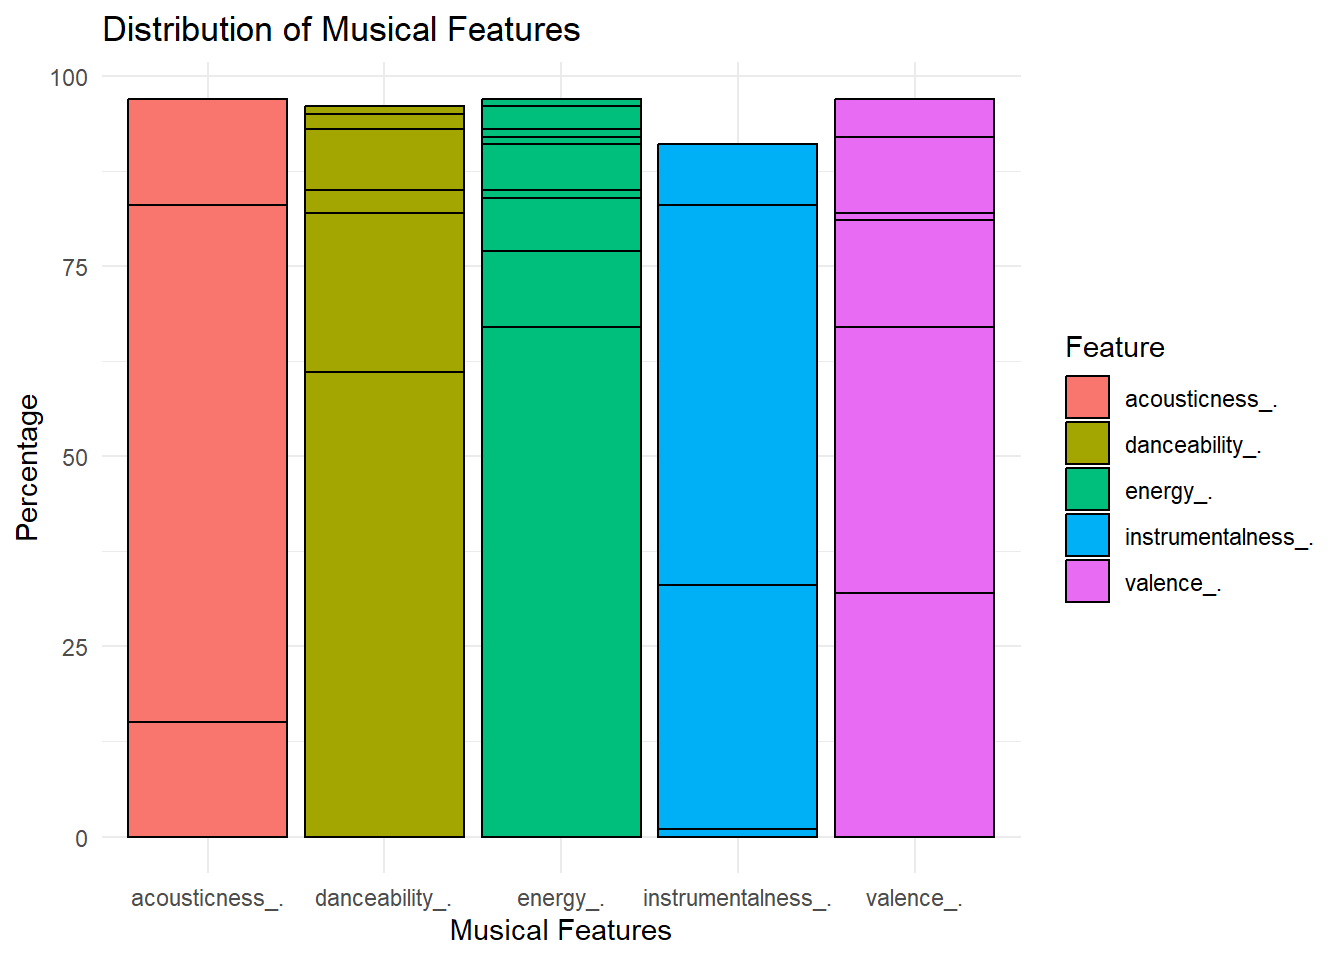
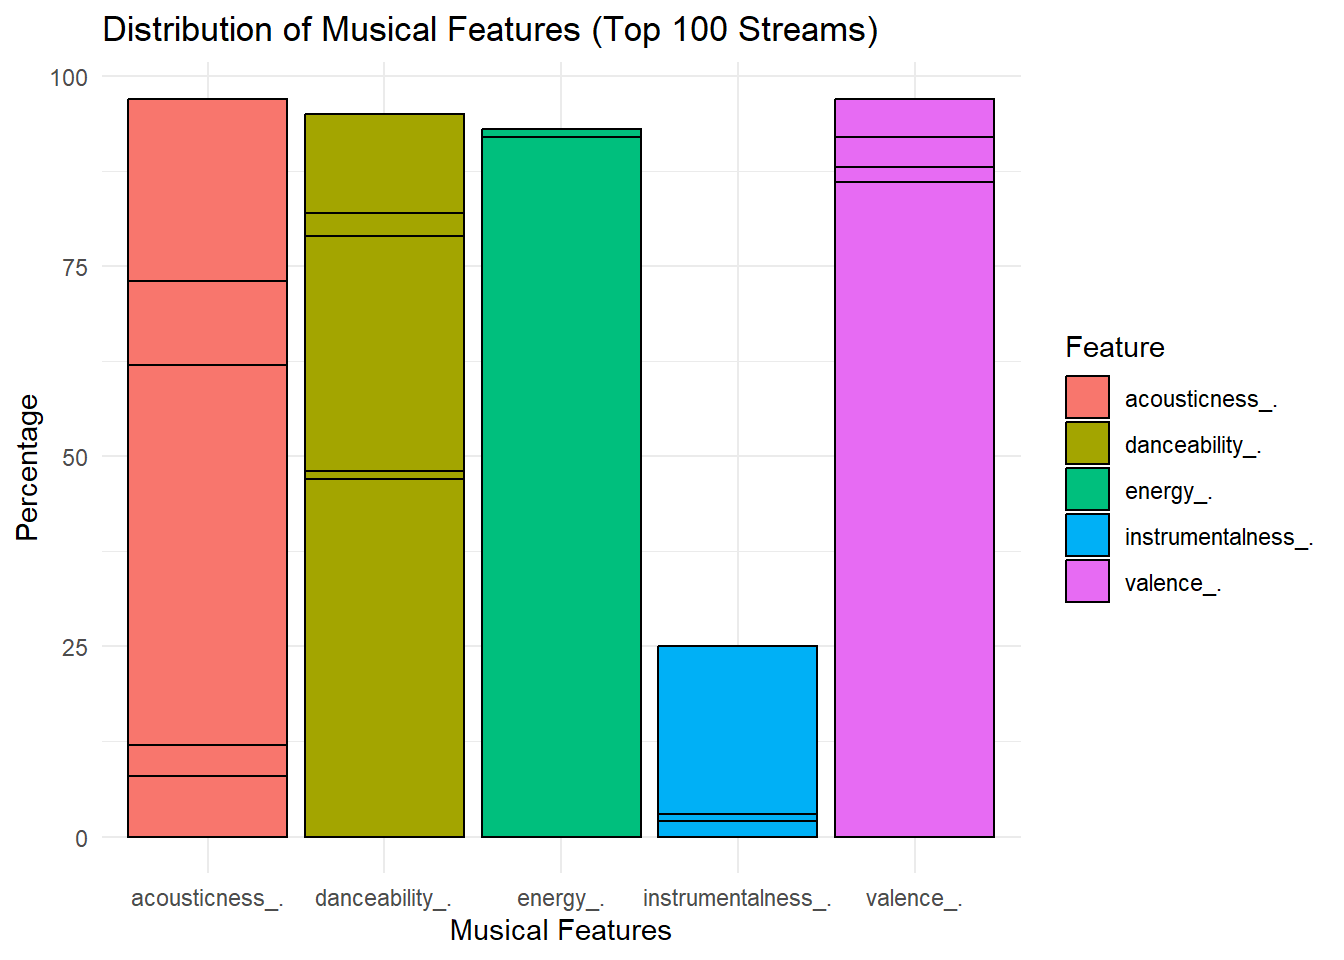
update inClass2

diff --git a/docs/inClass2.html b/docs/inClass2.html
@@ -257,8 +257,8 @@ pre > code.sourceCode > span > a:first-child::before { text-decoration: underlin
 <span id="cb1-16"><a href="#cb1-16" aria-hidden="true" tabindex="-1"></a>))</span></code><button title="Copy to Clipboard" class="code-copy-button"><i class="bi"></i></button></pre></div>
 <div class="cell-output-display">
 
-<div class="datatables html-widget html-fill-item-overflow-hidden html-fill-item" id="htmlwidget-efde5e3ca2f127a56dcf" style="width:100%;height:auto;"></div>
-<script type="application/json" data-for="htmlwidget-efde5e3ca2f127a56dcf">{"x":{"filter":"none","vertical":false,"editable":{"target":"row","disable":{"columns":[1,3,4]},"numeric":[3,4,5,6,7,8,10,11,13,15,18,19,20,21,22,23,24],"date":[]},"data":[["1","2","3","4","5","6"],["Anti-Hero","Arcade","Glimpse of Us","Seek &amp; Destroy","Summertime Sadness","Come Back Home - From \"Purple Hearts\""],["Taylor Swift","Duncan Laurence","Joji","SZA","Lana Del Rey","Sofia Carson"],[1,1,1,1,1,1],[2022,2019,2022,2022,2011,2022],[10,3,6,12,1,7],[21,7,10,9,1,12],[9082,6646,6330,1007,20333,367],[56,0,6,0,52,0],["999748277","991336132","988515741","98709329","983637508","97610446"],[242,107,109,5,89,28],[142,47,42,31,143,67],["165","584","158","1","1,632","195"],[9,1,3,0,3,0],["310","","31","0","200","0"],[97,72,170,152,112,145],["E","A","G#","C#","C#","G"],["Major","Minor","Major","Major","Minor","Major"],[64,45,44,65,56,56],[51,27,27,35,24,43],[63,33,32,65,66,53],[12,82,89,44,7,24],[0,0,0,18,0,0],[19,14,14,21,12,12],[5,4,5,7,3,4]],"container":"<table class=\"display\">\n  <thead>\n    <tr>\n      <th> <\/th>\n      <th>track_name<\/th>\n      <th>artist.s._name<\/th>\n      <th>artist_count<\/th>\n      <th>released_year<\/th>\n      <th>released_month<\/th>\n      <th>released_day<\/th>\n      <th>in_spotify_playlists<\/th>\n      <th>in_spotify_charts<\/th>\n      <th>streams<\/th>\n      <th>in_apple_playlists<\/th>\n      <th>in_apple_charts<\/th>\n      <th>in_deezer_playlists<\/th>\n      <th>in_deezer_charts<\/th>\n      <th>in_shazam_charts<\/th>\n      <th>bpm<\/th>\n      <th>key<\/th>\n      <th>mode<\/th>\n      <th>danceability_.<\/th>\n      <th>valence_.<\/th>\n      <th>energy_.<\/th>\n      <th>acousticness_.<\/th>\n      <th>instrumentalness_.<\/th>\n      <th>liveness_.<\/th>\n      <th>speechiness_.<\/th>\n    <\/tr>\n  <\/thead>\n<\/table>","options":{"columnDefs":[{"className":"dt-right","targets":[3,4,5,6,7,8,10,11,13,15,18,19,20,21,22,23,24]},{"orderable":false,"targets":0}],"order":[],"autoWidth":false,"orderClasses":false}},"evals":[],"jsHooks":[]}</script>
+<div class="datatables html-widget html-fill-item-overflow-hidden html-fill-item" id="htmlwidget-f44d5c740cfaf94a1fbd" style="width:100%;height:auto;"></div>
+<script type="application/json" data-for="htmlwidget-f44d5c740cfaf94a1fbd">{"x":{"filter":"none","vertical":false,"editable":{"target":"row","disable":{"columns":[1,3,4]},"numeric":[3,4,5,6,7,8,10,11,13,15,18,19,20,21,22,23,24],"date":[]},"data":[["1","2","3","4","5","6"],["Anti-Hero","Arcade","Glimpse of Us","Seek &amp; Destroy","Summertime Sadness","Come Back Home - From \"Purple Hearts\""],["Taylor Swift","Duncan Laurence","Joji","SZA","Lana Del Rey","Sofia Carson"],[1,1,1,1,1,1],[2022,2019,2022,2022,2011,2022],[10,3,6,12,1,7],[21,7,10,9,1,12],[9082,6646,6330,1007,20333,367],[56,0,6,0,52,0],["999748277","991336132","988515741","98709329","983637508","97610446"],[242,107,109,5,89,28],[142,47,42,31,143,67],["165","584","158","1","1,632","195"],[9,1,3,0,3,0],["310","","31","0","200","0"],[97,72,170,152,112,145],["E","A","G#","C#","C#","G"],["Major","Minor","Major","Major","Minor","Major"],[64,45,44,65,56,56],[51,27,27,35,24,43],[63,33,32,65,66,53],[12,82,89,44,7,24],[0,0,0,18,0,0],[19,14,14,21,12,12],[5,4,5,7,3,4]],"container":"<table class=\"display\">\n  <thead>\n    <tr>\n      <th> <\/th>\n      <th>track_name<\/th>\n      <th>artist.s._name<\/th>\n      <th>artist_count<\/th>\n      <th>released_year<\/th>\n      <th>released_month<\/th>\n      <th>released_day<\/th>\n      <th>in_spotify_playlists<\/th>\n      <th>in_spotify_charts<\/th>\n      <th>streams<\/th>\n      <th>in_apple_playlists<\/th>\n      <th>in_apple_charts<\/th>\n      <th>in_deezer_playlists<\/th>\n      <th>in_deezer_charts<\/th>\n      <th>in_shazam_charts<\/th>\n      <th>bpm<\/th>\n      <th>key<\/th>\n      <th>mode<\/th>\n      <th>danceability_.<\/th>\n      <th>valence_.<\/th>\n      <th>energy_.<\/th>\n      <th>acousticness_.<\/th>\n      <th>instrumentalness_.<\/th>\n      <th>liveness_.<\/th>\n      <th>speechiness_.<\/th>\n    <\/tr>\n  <\/thead>\n<\/table>","options":{"columnDefs":[{"className":"dt-right","targets":[3,4,5,6,7,8,10,11,13,15,18,19,20,21,22,23,24]},{"orderable":false,"targets":0}],"order":[],"autoWidth":false,"orderClasses":false}},"evals":[],"jsHooks":[]}</script>
 </div>
 </div>
 <hr>
@@ -275,16 +275,21 @@ pre > code.sourceCode > span > a:first-child::before { text-decoration: underlin
 <span id="cb4-2"><a href="#cb4-2" aria-hidden="true" tabindex="-1"></a>filtered_spotify_data<span class="sc">$</span>streams <span class="ot">&lt;-</span> <span class="fu">as.numeric</span>(filtered_spotify_data<span class="sc">$</span>streams)</span>
 <span id="cb4-3"><a href="#cb4-3" aria-hidden="true" tabindex="-1"></a></span>
 <span id="cb4-4"><a href="#cb4-4" aria-hidden="true" tabindex="-1"></a><span class="co"># 1. Distribution of Musical Features</span></span>
-<span id="cb4-5"><a href="#cb4-5" aria-hidden="true" tabindex="-1"></a>gathered_data <span class="ot">&lt;-</span> <span class="fu">gather</span>(filtered_spotify_data, <span class="at">key =</span> <span class="st">"feature"</span>, <span class="at">value =</span> <span class="st">"percentage"</span>,</span>
-<span id="cb4-6"><a href="#cb4-6" aria-hidden="true" tabindex="-1"></a>                        danceability_., valence_., energy_., acousticness_., instrumentalness_.)</span>
+<span id="cb4-5"><a href="#cb4-5" aria-hidden="true" tabindex="-1"></a></span>
+<span id="cb4-6"><a href="#cb4-6" aria-hidden="true" tabindex="-1"></a>ordered_filtered_data <span class="ot">&lt;-</span> filtered_spotify_data[<span class="fu">order</span>(<span class="sc">-</span>filtered_spotify_data<span class="sc">$</span>streams), ]</span>
 <span id="cb4-7"><a href="#cb4-7" aria-hidden="true" tabindex="-1"></a></span>
-<span id="cb4-8"><a href="#cb4-8" aria-hidden="true" tabindex="-1"></a><span class="fu">ggplot</span>(gathered_data, <span class="fu">aes</span>(<span class="at">x =</span> feature, <span class="at">y =</span> percentage, <span class="at">fill =</span> feature)) <span class="sc">+</span></span>
-<span id="cb4-9"><a href="#cb4-9" aria-hidden="true" tabindex="-1"></a>  <span class="fu">geom_bar</span>(<span class="at">stat =</span> <span class="st">"identity"</span>, <span class="at">position =</span> <span class="st">"dodge"</span>, <span class="at">color =</span> <span class="st">"black"</span>) <span class="sc">+</span></span>
-<span id="cb4-10"><a href="#cb4-10" aria-hidden="true" tabindex="-1"></a>  <span class="fu">labs</span>(<span class="at">title =</span> <span class="st">"Distribution of Musical Features"</span>,</span>
-<span id="cb4-11"><a href="#cb4-11" aria-hidden="true" tabindex="-1"></a>       <span class="at">x =</span> <span class="st">"Musical Features"</span>,</span>
-<span id="cb4-12"><a href="#cb4-12" aria-hidden="true" tabindex="-1"></a>       <span class="at">y =</span> <span class="st">"Percentage"</span>,</span>
-<span id="cb4-13"><a href="#cb4-13" aria-hidden="true" tabindex="-1"></a>       <span class="at">fill =</span> <span class="st">"Feature"</span>) <span class="sc">+</span></span>
-<span id="cb4-14"><a href="#cb4-14" aria-hidden="true" tabindex="-1"></a>  <span class="fu">theme_minimal</span>()</span></code><button title="Copy to Clipboard" class="code-copy-button"><i class="bi"></i></button></pre></div>
+<span id="cb4-8"><a href="#cb4-8" aria-hidden="true" tabindex="-1"></a>top100_streams_data <span class="ot">&lt;-</span> <span class="fu">head</span>(ordered_filtered_data, <span class="dv">100</span>)</span>
+<span id="cb4-9"><a href="#cb4-9" aria-hidden="true" tabindex="-1"></a></span>
+<span id="cb4-10"><a href="#cb4-10" aria-hidden="true" tabindex="-1"></a>gathered_top100_data <span class="ot">&lt;-</span> <span class="fu">gather</span>(top100_streams_data, <span class="at">key =</span> <span class="st">"feature"</span>, <span class="at">value =</span> <span class="st">"percentage"</span>,</span>
+<span id="cb4-11"><a href="#cb4-11" aria-hidden="true" tabindex="-1"></a>                                danceability_., valence_., energy_., acousticness_., instrumentalness_.)</span>
+<span id="cb4-12"><a href="#cb4-12" aria-hidden="true" tabindex="-1"></a></span>
+<span id="cb4-13"><a href="#cb4-13" aria-hidden="true" tabindex="-1"></a><span class="fu">ggplot</span>(gathered_top100_data, <span class="fu">aes</span>(<span class="at">x =</span> feature, <span class="at">y =</span> percentage, <span class="at">fill =</span> feature)) <span class="sc">+</span></span>
+<span id="cb4-14"><a href="#cb4-14" aria-hidden="true" tabindex="-1"></a>  <span class="fu">geom_bar</span>(<span class="at">stat =</span> <span class="st">"identity"</span>, <span class="at">position =</span> <span class="st">"dodge"</span>, <span class="at">color =</span> <span class="st">"black"</span>) <span class="sc">+</span></span>
+<span id="cb4-15"><a href="#cb4-15" aria-hidden="true" tabindex="-1"></a>  <span class="fu">labs</span>(<span class="at">title =</span> <span class="st">"Distribution of Musical Features (Top 100 Streams)"</span>,</span>
+<span id="cb4-16"><a href="#cb4-16" aria-hidden="true" tabindex="-1"></a>       <span class="at">x =</span> <span class="st">"Musical Features"</span>,</span>
+<span id="cb4-17"><a href="#cb4-17" aria-hidden="true" tabindex="-1"></a>       <span class="at">y =</span> <span class="st">"Percentage"</span>,</span>
+<span id="cb4-18"><a href="#cb4-18" aria-hidden="true" tabindex="-1"></a>       <span class="at">fill =</span> <span class="st">"Feature"</span>) <span class="sc">+</span></span>
+<span id="cb4-19"><a href="#cb4-19" aria-hidden="true" tabindex="-1"></a>  <span class="fu">theme_minimal</span>()</span></code><button title="Copy to Clipboard" class="code-copy-button"><i class="bi"></i></button></pre></div>
 <div class="cell-output-display">
 <p><img src="inClass2_files/figure-html/unnamed-chunk-2-1.png" class="img-fluid" width="672"></p>
 </div>

diff --git a/docs/assignment1.html b/docs/assignment1.html
@@ -318,8 +318,8 @@ pre > code.sourceCode > span > a:first-child::before { text-decoration: underlin
 <span id="cb1-16"><a href="#cb1-16" aria-hidden="true" tabindex="-1"></a>))</span></code><button title="Copy to Clipboard" class="code-copy-button"><i class="bi"></i></button></pre></div>
 <div class="cell-output-display">
 
-<div class="datatables html-widget html-fill-item-overflow-hidden html-fill-item" id="htmlwidget-a6b47b7d5f3e4ca8f7fb" style="width:100%;height:auto;"></div>
-<script type="application/json" data-for="htmlwidget-a6b47b7d5f3e4ca8f7fb">{"x":{"filter":"none","vertical":false,"editable":{"target":"row","disable":{"columns":[1,3,4]},"numeric":[3,4,5,6,7,8,10,11,13,15,18,19,20,21,22,23,24],"date":[]},"data":[["1","2","3","4","5","6"],["Anti-Hero","Arcade","Glimpse of Us","Seek &amp; Destroy","Summertime Sadness","Come Back Home - From \"Purple Hearts\""],["Taylor Swift","Duncan Laurence","Joji","SZA","Lana Del Rey","Sofia Carson"],[1,1,1,1,1,1],[2022,2019,2022,2022,2011,2022],[10,3,6,12,1,7],[21,7,10,9,1,12],[9082,6646,6330,1007,20333,367],[56,0,6,0,52,0],["999748277","991336132","988515741","98709329","983637508","97610446"],[242,107,109,5,89,28],[142,47,42,31,143,67],["165","584","158","1","1,632","195"],[9,1,3,0,3,0],["310","","31","0","200","0"],[97,72,170,152,112,145],["E","A","G#","C#","C#","G"],["Major","Minor","Major","Major","Minor","Major"],[64,45,44,65,56,56],[51,27,27,35,24,43],[63,33,32,65,66,53],[12,82,89,44,7,24],[0,0,0,18,0,0],[19,14,14,21,12,12],[5,4,5,7,3,4]],"container":"<table class=\"display\">\n  <thead>\n    <tr>\n      <th> <\/th>\n      <th>track_name<\/th>\n      <th>artist.s._name<\/th>\n      <th>artist_count<\/th>\n      <th>released_year<\/th>\n      <th>released_month<\/th>\n      <th>released_day<\/th>\n      <th>in_spotify_playlists<\/th>\n      <th>in_spotify_charts<\/th>\n      <th>streams<\/th>\n      <th>in_apple_playlists<\/th>\n      <th>in_apple_charts<\/th>\n      <th>in_deezer_playlists<\/th>\n      <th>in_deezer_charts<\/th>\n      <th>in_shazam_charts<\/th>\n      <th>bpm<\/th>\n      <th>key<\/th>\n      <th>mode<\/th>\n      <th>danceability_.<\/th>\n      <th>valence_.<\/th>\n      <th>energy_.<\/th>\n      <th>acousticness_.<\/th>\n      <th>instrumentalness_.<\/th>\n      <th>liveness_.<\/th>\n      <th>speechiness_.<\/th>\n    <\/tr>\n  <\/thead>\n<\/table>","options":{"columnDefs":[{"className":"dt-right","targets":[3,4,5,6,7,8,10,11,13,15,18,19,20,21,22,23,24]},{"orderable":false,"targets":0}],"order":[],"autoWidth":false,"orderClasses":false}},"evals":[],"jsHooks":[]}</script>
+<div class="datatables html-widget html-fill-item-overflow-hidden html-fill-item" id="htmlwidget-7b0882ecbdc9f56293ea" style="width:100%;height:auto;"></div>
+<script type="application/json" data-for="htmlwidget-7b0882ecbdc9f56293ea">{"x":{"filter":"none","vertical":false,"editable":{"target":"row","disable":{"columns":[1,3,4]},"numeric":[3,4,5,6,7,8,10,11,13,15,18,19,20,21,22,23,24],"date":[]},"data":[["1","2","3","4","5","6"],["Anti-Hero","Arcade","Glimpse of Us","Seek &amp; Destroy","Summertime Sadness","Come Back Home - From \"Purple Hearts\""],["Taylor Swift","Duncan Laurence","Joji","SZA","Lana Del Rey","Sofia Carson"],[1,1,1,1,1,1],[2022,2019,2022,2022,2011,2022],[10,3,6,12,1,7],[21,7,10,9,1,12],[9082,6646,6330,1007,20333,367],[56,0,6,0,52,0],["999748277","991336132","988515741","98709329","983637508","97610446"],[242,107,109,5,89,28],[142,47,42,31,143,67],["165","584","158","1","1,632","195"],[9,1,3,0,3,0],["310","","31","0","200","0"],[97,72,170,152,112,145],["E","A","G#","C#","C#","G"],["Major","Minor","Major","Major","Minor","Major"],[64,45,44,65,56,56],[51,27,27,35,24,43],[63,33,32,65,66,53],[12,82,89,44,7,24],[0,0,0,18,0,0],[19,14,14,21,12,12],[5,4,5,7,3,4]],"container":"<table class=\"display\">\n  <thead>\n    <tr>\n      <th> <\/th>\n      <th>track_name<\/th>\n      <th>artist.s._name<\/th>\n      <th>artist_count<\/th>\n      <th>released_year<\/th>\n      <th>released_month<\/th>\n      <th>released_day<\/th>\n      <th>in_spotify_playlists<\/th>\n      <th>in_spotify_charts<\/th>\n      <th>streams<\/th>\n      <th>in_apple_playlists<\/th>\n      <th>in_apple_charts<\/th>\n      <th>in_deezer_playlists<\/th>\n      <th>in_deezer_charts<\/th>\n      <th>in_shazam_charts<\/th>\n      <th>bpm<\/th>\n      <th>key<\/th>\n      <th>mode<\/th>\n      <th>danceability_.<\/th>\n      <th>valence_.<\/th>\n      <th>energy_.<\/th>\n      <th>acousticness_.<\/th>\n      <th>instrumentalness_.<\/th>\n      <th>liveness_.<\/th>\n      <th>speechiness_.<\/th>\n    <\/tr>\n  <\/thead>\n<\/table>","options":{"columnDefs":[{"className":"dt-right","targets":[3,4,5,6,7,8,10,11,13,15,18,19,20,21,22,23,24]},{"orderable":false,"targets":0}],"order":[],"autoWidth":false,"orderClasses":false}},"evals":[],"jsHooks":[]}</script>
 </div>
 </div>
 <hr>

diff --git a/docs/inClass1.html b/docs/inClass1.html
@@ -258,8 +258,8 @@ pre > code.sourceCode > span > a:first-child::before { text-decoration: underlin
 <span id="cb1-16"><a href="#cb1-16" aria-hidden="true" tabindex="-1"></a>))</span></code><button title="Copy to Clipboard" class="code-copy-button"><i class="bi"></i></button></pre></div>
 <div class="cell-output-display">
 
-<div class="datatables html-widget html-fill-item-overflow-hidden html-fill-item" id="htmlwidget-f56c3fd6872fd90a2920" style="width:100%;height:auto;"></div>
-<script type="application/json" data-for="htmlwidget-f56c3fd6872fd90a2920">{"x":{"filter":"none","vertical":false,"editable":{"target":"row","disable":{"columns":[1,3,4]},"numeric":[3,4,5,6,7,8,10,11,13,15,18,19,20,21,22,23,24],"date":[]},"data":[["1","2","3","4","5","6"],["Anti-Hero","Arcade","Glimpse of Us","Seek &amp; Destroy","Summertime Sadness","Come Back Home - From \"Purple Hearts\""],["Taylor Swift","Duncan Laurence","Joji","SZA","Lana Del Rey","Sofia Carson"],[1,1,1,1,1,1],[2022,2019,2022,2022,2011,2022],[10,3,6,12,1,7],[21,7,10,9,1,12],[9082,6646,6330,1007,20333,367],[56,0,6,0,52,0],["999748277","991336132","988515741","98709329","983637508","97610446"],[242,107,109,5,89,28],[142,47,42,31,143,67],["165","584","158","1","1,632","195"],[9,1,3,0,3,0],["310","","31","0","200","0"],[97,72,170,152,112,145],["E","A","G#","C#","C#","G"],["Major","Minor","Major","Major","Minor","Major"],[64,45,44,65,56,56],[51,27,27,35,24,43],[63,33,32,65,66,53],[12,82,89,44,7,24],[0,0,0,18,0,0],[19,14,14,21,12,12],[5,4,5,7,3,4]],"container":"<table class=\"display\">\n  <thead>\n    <tr>\n      <th> <\/th>\n      <th>track_name<\/th>\n      <th>artist.s._name<\/th>\n      <th>artist_count<\/th>\n      <th>released_year<\/th>\n      <th>released_month<\/th>\n      <th>released_day<\/th>\n      <th>in_spotify_playlists<\/th>\n      <th>in_spotify_charts<\/th>\n      <th>streams<\/th>\n      <th>in_apple_playlists<\/th>\n      <th>in_apple_charts<\/th>\n      <th>in_deezer_playlists<\/th>\n      <th>in_deezer_charts<\/th>\n      <th>in_shazam_charts<\/th>\n      <th>bpm<\/th>\n      <th>key<\/th>\n      <th>mode<\/th>\n      <th>danceability_.<\/th>\n      <th>valence_.<\/th>\n      <th>energy_.<\/th>\n      <th>acousticness_.<\/th>\n      <th>instrumentalness_.<\/th>\n      <th>liveness_.<\/th>\n      <th>speechiness_.<\/th>\n    <\/tr>\n  <\/thead>\n<\/table>","options":{"columnDefs":[{"className":"dt-right","targets":[3,4,5,6,7,8,10,11,13,15,18,19,20,21,22,23,24]},{"orderable":false,"targets":0}],"order":[],"autoWidth":false,"orderClasses":false}},"evals":[],"jsHooks":[]}</script>
+<div class="datatables html-widget html-fill-item-overflow-hidden html-fill-item" id="htmlwidget-f62a7e3d1b3f366f05fe" style="width:100%;height:auto;"></div>
+<script type="application/json" data-for="htmlwidget-f62a7e3d1b3f366f05fe">{"x":{"filter":"none","vertical":false,"editable":{"target":"row","disable":{"columns":[1,3,4]},"numeric":[3,4,5,6,7,8,10,11,13,15,18,19,20,21,22,23,24],"date":[]},"data":[["1","2","3","4","5","6"],["Anti-Hero","Arcade","Glimpse of Us","Seek &amp; Destroy","Summertime Sadness","Come Back Home - From \"Purple Hearts\""],["Taylor Swift","Duncan Laurence","Joji","SZA","Lana Del Rey","Sofia Carson"],[1,1,1,1,1,1],[2022,2019,2022,2022,2011,2022],[10,3,6,12,1,7],[21,7,10,9,1,12],[9082,6646,6330,1007,20333,367],[56,0,6,0,52,0],["999748277","991336132","988515741","98709329","983637508","97610446"],[242,107,109,5,89,28],[142,47,42,31,143,67],["165","584","158","1","1,632","195"],[9,1,3,0,3,0],["310","","31","0","200","0"],[97,72,170,152,112,145],["E","A","G#","C#","C#","G"],["Major","Minor","Major","Major","Minor","Major"],[64,45,44,65,56,56],[51,27,27,35,24,43],[63,33,32,65,66,53],[12,82,89,44,7,24],[0,0,0,18,0,0],[19,14,14,21,12,12],[5,4,5,7,3,4]],"container":"<table class=\"display\">\n  <thead>\n    <tr>\n      <th> <\/th>\n      <th>track_name<\/th>\n      <th>artist.s._name<\/th>\n      <th>artist_count<\/th>\n      <th>released_year<\/th>\n      <th>released_month<\/th>\n      <th>released_day<\/th>\n      <th>in_spotify_playlists<\/th>\n      <th>in_spotify_charts<\/th>\n      <th>streams<\/th>\n      <th>in_apple_playlists<\/th>\n      <th>in_apple_charts<\/th>\n      <th>in_deezer_playlists<\/th>\n      <th>in_deezer_charts<\/th>\n      <th>in_shazam_charts<\/th>\n      <th>bpm<\/th>\n      <th>key<\/th>\n      <th>mode<\/th>\n      <th>danceability_.<\/th>\n      <th>valence_.<\/th>\n      <th>energy_.<\/th>\n      <th>acousticness_.<\/th>\n      <th>instrumentalness_.<\/th>\n      <th>liveness_.<\/th>\n      <th>speechiness_.<\/th>\n    <\/tr>\n  <\/thead>\n<\/table>","options":{"columnDefs":[{"className":"dt-right","targets":[3,4,5,6,7,8,10,11,13,15,18,19,20,21,22,23,24]},{"orderable":false,"targets":0}],"order":[],"autoWidth":false,"orderClasses":false}},"evals":[],"jsHooks":[]}</script>
 </div>
 </div>
 <hr>
